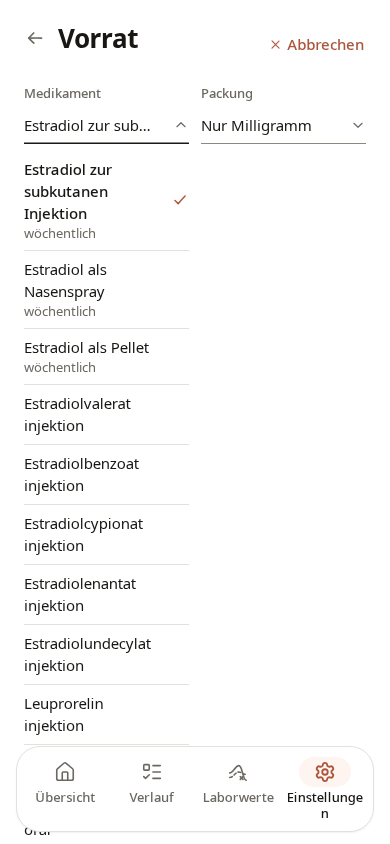
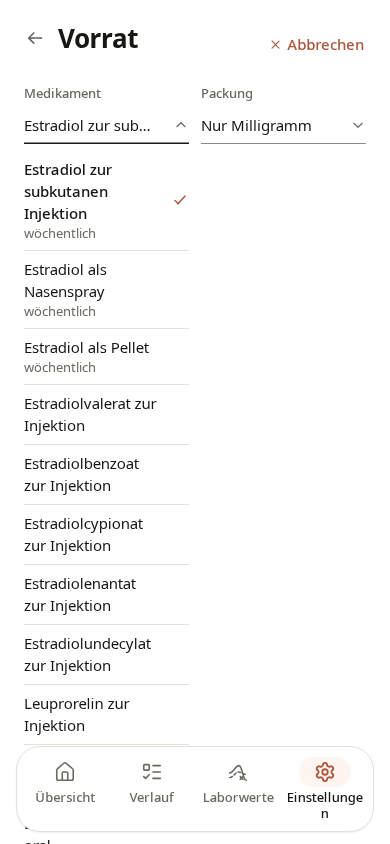
Share drug and route labels between Supplies and Overview

diff --git a/src/utils/regimenText.ts b/src/utils/regimenText.ts
@@ -58,13 +58,15 @@ export const doseOf = (dose: string, drug: string, t: T) => {
     return fill(template, { dose, drug: template.startsWith('{drug}') ? drug : inPhrase(drug) });
 };
 
+/** "雌二醇鼻喷": a supply is a drug and a form, without a dose. */
+export const supplyLabel = (s: { route: Route; ester: Ester }, t: T) =>
+    glue(esterName(s.ester, t), inPhrase(t(`regimen.route.${s.route}`)));
+
 /** "雌二醇凝胶", "雌二醇贴片"; a pill or an injection is just the drug's name. */
 const drugForm = (i: { route: Route; ester: Ester }, t: T) =>
-    i.route === Route.gel || i.route === Route.patchApply
-        ? glue(esterName(i.ester, t), inPhrase(t(`regimen.route.${i.route}`)))
-        : esterName(i.ester, t);
+    i.route === Route.gel || i.route === Route.patchApply ? supplyLabel(i, t) : esterName(i.ester, t);
 
-/** A plan item only needs its route when another item would have the same name. */
+/** Use the Supplies label to distinguish plan rows that would otherwise have the same name. */
 export function planItemLabel(
     item: { id: string; route: Route; ester: Ester },
     plan: readonly { id: string; route: Route; ester: Ester }[],
@@ -72,12 +74,7 @@ export function planItemLabel(
 ): string {
     const base = drugForm(item, t);
     const clash = plan.some(o => o.id !== item.id && drugForm(o, t) === base);
-    if (!clash) return base;
-    // Imported plans can contain these forms. Use the same drug-first phrase as the Supplies picker.
-    if (item.route === Route.sc || item.route === Route.nasal || item.route === Route.pellet) {
-        return supplyLabel(item, t);
-    }
-    return glue(t(`regimen.route.${item.route}`), inPhrase(esterName(item.ester, t)));
+    return clash ? supplyLabel(item, t) : base;
 }
 
 /** "手臂": where a gel goes, without the English the settings list carries ("手臂 (Arm)"). */
@@ -132,10 +129,6 @@ export function regimenLabel(
         return `${glue(esterName(r.ester, t), route)} ${trimNum(rate)} µg${t('regimen.per_day')}`;
     return `${esterName(r.ester, t)} ${trimNum(r.doseMG)} mg ${route}`;
 }
-
-/** "戊酸雌二醇 肌注": a supply is a drug and a form, not a dose. */
-export const supplyLabel = (s: { route: Route; ester: Ester }, t: T) =>
-    `${esterName(s.ester, t)} ${inPhrase(t(`regimen.route.${s.route}`))}`;
 
 /** "每周", "每 3.5 天", "每 12 小时". */
 export function intervalLabel(h: number, t: T): string {

diff --git a/e2e/mobile/supplies-inferred-routes.spec.ts b/e2e/mobile/supplies-inferred-routes.spec.ts
@@ -18,6 +18,10 @@ const languages = [
             nasal: 'Estradiol nasal spray',
             pellet: 'Estradiol pellet',
         },
+        plan: {
+            injection: 'Estradiol valerate injection',
+            sc: 'Estradiol valerate subcutaneous injection',
+        },
     },
     {
         lang: 'de',
@@ -33,8 +37,22 @@ const languages = [
             nasal: 'Estradiol als Nasenspray',
             pellet: 'Estradiol als Pellet',
         },
+        plan: {
+            injection: 'Estradiolvalerat zur Injektion',
+            sc: 'Estradiolvalerat zur subkutanen Injektion',
+        },
     },
 ];
+
+const mixedPlan = (['injection', 'sc'] as const).map(route => ({
+    id: `mixed-${route}`,
+    route,
+    ester: 'EV',
+    doseMG: 1,
+    extras: {},
+    everyDays: 7,
+    timesPerDay: 1,
+}));
 
 for (const copy of languages) {
     test(`Supplies names routes inferred from the dose log in ${copy.lang}`, async ({ page, context }) => {
@@ -69,21 +87,14 @@ for (const copy of languages) {
         await expect(page.getByRole('button', { name: new RegExp(`^${copy.routes.nasal} `) })).toBeVisible();
     });
 
-    test(`Overview distinguishes saved plan entries for the same drug in ${copy.lang}`, async ({ page, context }) => {
-        const plan = Object.keys(copy.routes).map(route => ({
-            id: route,
-            route,
-            ester: 'E2',
-            doseMG: 1,
-            extras: {},
-            everyDays: 7,
-            timesPerDay: 1,
-        }));
-        await seedStorage(context, baseStorage({ 'hrt-lang': copy.lang, 'hrt-plan': JSON.stringify(plan) }));
+    test(`Overview names a drug and its form the way Supplies does in ${copy.lang}`, async ({ page, context }) => {
+        await seedStorage(context, baseStorage({ 'hrt-lang': copy.lang, 'hrt-plan': JSON.stringify(mixedPlan) }));
         await page.goto('/');
 
-        for (const label of Object.values(copy.routes)) {
-            await expect(page.getByText(label, { exact: true })).toBeVisible();
+        for (const item of mixedPlan) {
+            const logAction = page.locator(`button[aria-describedby$="-${item.id}"]`);
+            await expect(logAction).toBeVisible();
+            await expect(logAction).toHaveAccessibleDescription(copy.plan[item.route]);
         }
     });
 }

diff --git a/tests/regimenText.test.ts b/tests/regimenText.test.ts
@@ -1,0 +1,36 @@
+import { afterEach, expect, it, vi } from 'vitest';
+import { Ester, Route } from '../src/domain/types';
+import * as locale from '../src/i18n/locale';
+import { TRANSLATIONS } from '../src/i18n/translations';
+import { planItemLabel, supplyLabel } from '../src/utils/regimenText';
+
+afterEach(() => vi.restoreAllMocks());
+
+it.each([
+    ['en', Route.injection, 'Estradiol injection'],
+    ['de', Route.injection, 'Estradiol zur Injektion'],
+    ['de', Route.gel, 'Estradiol als Gel'],
+    ['de', Route.patchApply, 'Estradiol als Pflaster'],
+    ['zh', Route.sc, '雌二醇皮下注射'],
+    ['zh-TW', Route.nasal, '雌二醇鼻噴'],
+    ['yue', Route.nasal, '雌二醇噴鼻劑'],
+    ['ja', Route.nasal, 'エストラジオール点鼻'],
+    ['ko', Route.nasal, '에스트라디올 비강 스프레이'],
+] as const)('shows the same %s drug and %s form in Supplies and on Overview', (lang, route, expected) => {
+    vi.spyOn(locale, 'appLocale').mockReturnValue(lang);
+    const pack: Record<string, string> = TRANSLATIONS[lang];
+    const t = (key: string) => pack[key] ?? key;
+    const item = { id: 'target', ester: Ester.E2, route };
+    const oral = { id: 'oral', ester: Ester.E2, route: Route.oral };
+
+    expect(supplyLabel(item, t)).toBe(expected);
+    expect(planItemLabel(item, [oral, item], t)).toBe(expected);
+});
+
+it('keeps the short drug name on Overview when the plan has no ambiguity', () => {
+    const pack: Record<string, string> = TRANSLATIONS.en;
+    const nasal = { id: 'nasal', route: Route.nasal, ester: Ester.E2 };
+    const tablet = { id: 'tablet', route: Route.oral, ester: Ester.EV };
+
+    expect(planItemLabel(nasal, [tablet, nasal], key => pack[key] ?? key)).toBe('Estradiol');
+});

diff --git a/src/i18n/de.ts b/src/i18n/de.ts
@@ -233,15 +233,15 @@ export const DE = {
     'home.empty_title': 'Noch keine Dosen eingetragen',
     'home.empty_subtitle': 'Trage deine erste Dosis ein, um deine geschätzten Hormonspiegel zu sehen',
     'home.empty_cta': 'Dosis eintragen',
-    'regimen.route.injection': 'Injektion',
     // These phrases follow the drug name, e.g. "Estradiol als Nasenspray".
+    'regimen.route.injection': 'Zur Injektion',
     'regimen.route.sc': 'Zur subkutanen Injektion',
     'regimen.route.nasal': 'Als Nasenspray',
     'regimen.route.pellet': 'Als Pellet',
     'regimen.route.oral': 'Oral',
     'regimen.route.sublingual': 'Sublingual',
-    'regimen.route.gel': 'Gel',
-    'regimen.route.patchApply': 'Pflaster',
+    'regimen.route.gel': 'Als Gel',
+    'regimen.route.patchApply': 'Als Pflaster',
     'regimen.every_hours': 'alle {n} h',
     'regimen.daily': 'täglich',
     'regimen.every_days': 'alle {n} Tage',

diff --git a/tests/translations.test.ts b/tests/translations.test.ts
@@ -81,7 +81,6 @@ describe('language packs', () => {
         const sharedGermanLabels: Partial<Record<Route, string>> = {
             [Route.oral]: 'Oral',
             [Route.sublingual]: 'Sublingual',
-            [Route.gel]: 'Gel',
         };
         for (const locale of locales) {
             if (locale === 'en') continue;
